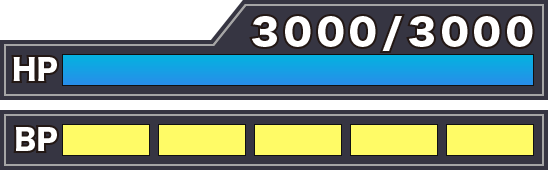
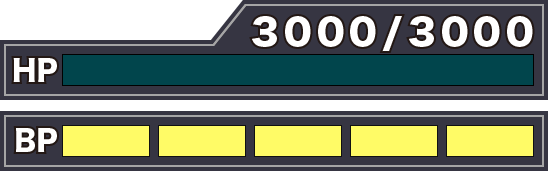
ゴミ掃除

diff --git a/src/js/resource/canvas-image.js b/src/js/resource/canvas-image.js
@@ -18,12 +18,6 @@ export type CanvasImageResource = {
 
 /** キャンバス用画像IDリストをあつめたもの */
 export const CANVAS_IMAGE_IDS = {
-  GAUGE_WINDOW: 'GAUGE_WINDOW',
-  ACTIVE_HP_BAR: 'ACTIVE_HP_BAR',
-  DIS_ACTIVE_HP_BAR: 'DIS_ACTIVE_HP_BAR',
-  ACTIVE_BATTERY_BAR: 'ACTIVE_BATTERY_BAR',
-  DIS_ACTIVE_BATTERY_BAR: 'DIS_ACTIVE_BATTERY_BAR',
-  GAUGE_BAR_BASE: 'GAUGE_BAR_BASE',
   BATTERY_BUTTON: 'BATTERY_BUTTON',
   BATTERY_PLUS: 'BATTERY_PLUS',
   BATTERY_MINUS: 'BATTERY_MINUS',
@@ -46,30 +40,6 @@ export const CANVAS_IMAGE_IDS = {
 
 /** キャンバス用画像設定をあつめたもの */
 export const CANVAS_IMAGE_CONFIGS: CanvasImageConfig[] = [
-  {
-    id: CANVAS_IMAGE_IDS.GAUGE_WINDOW,
-    path: 'gauge/window.png',
-  },
-  {
-    id: CANVAS_IMAGE_IDS.ACTIVE_HP_BAR,
-    path: 'gauge/active-hp-bar.png',
-  },
-  {
-    id: CANVAS_IMAGE_IDS.DIS_ACTIVE_HP_BAR,
-    path: 'gauge/disactive-hp-bar.png',
-  },
-  {
-    id: CANVAS_IMAGE_IDS.ACTIVE_BATTERY_BAR,
-    path: 'gauge/active-battery-bar.png',
-  },
-  {
-    id: CANVAS_IMAGE_IDS.DIS_ACTIVE_BATTERY_BAR,
-    path: 'gauge/disactive-battery-bar.png',
-  },
-  {
-    id: CANVAS_IMAGE_IDS.GAUGE_BAR_BASE,
-    path: 'gauge/bar-base.png',
-  },
   {
     id: CANVAS_IMAGE_IDS.BATTERY_BUTTON,
     path: 'battery-selector/battery-button.png',
